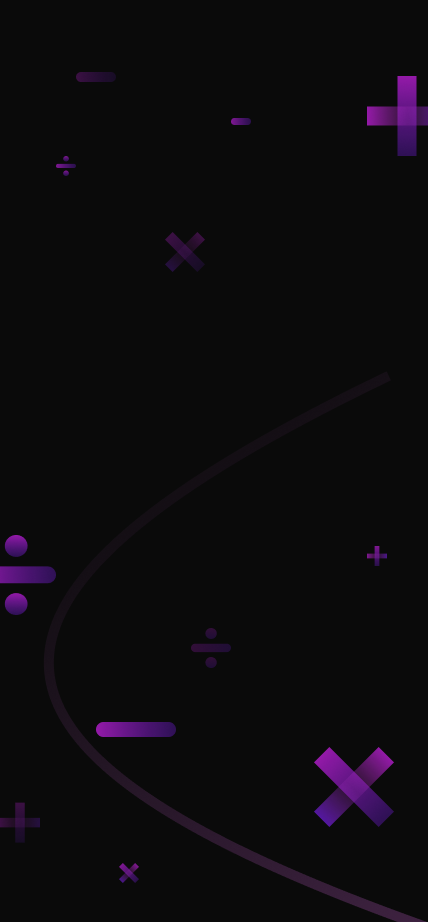
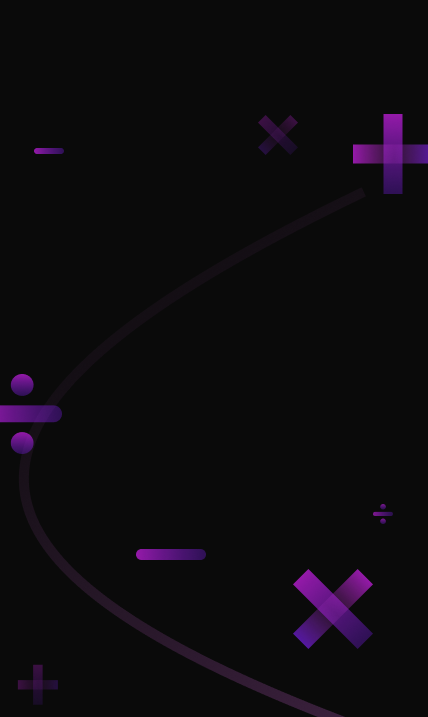
fix: arrumado bug da imagem de fundo

diff --git a/src/pages/index.tsx b/src/pages/index.tsx
@@ -7,7 +7,7 @@ import { Common } from "../layouts/Common";
 const Home: NextPage = () => {
 	return (
 		<Common>
-			<main className="min-h-screen bg-home-mobile bg-cover bg-no-repeat bg-center flex flex-col items-center gap-10">
+			<main className="min-h-full bg-home-mobile bg-cover bg-no-repeat bg-center flex flex-col items-center gap-10 p-4 pb-24">
 				<section className="mt-36">
 					<h1 className="text-4xl text-pink-200 font-staatliches tracking-wide flex flex-col">
 						<span className="text-6xl after:content-['👋']">Olá</span>
@@ -18,7 +18,7 @@ const Home: NextPage = () => {
 					</p>
 				</section>
 				<Link href="/">
-					<a className="main-button text-sm">
+					<a className="main-button text-sm mb-36">
 						Comece Agora{" "}
 						<i className="text-xl opacity-70">
 							<BsFillArrowRightSquareFill />
@@ -26,6 +26,9 @@ const Home: NextPage = () => {
 					</a>
 				</Link>
 			</main>
+			<section>
+				<h1>Como funciona?</h1>
+			</section>
 		</Common>
 	);
 };
